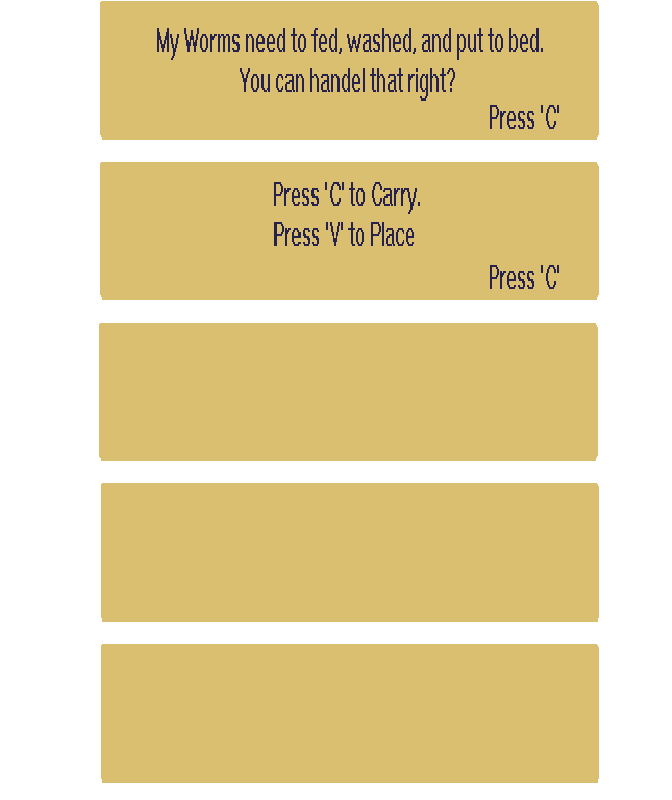
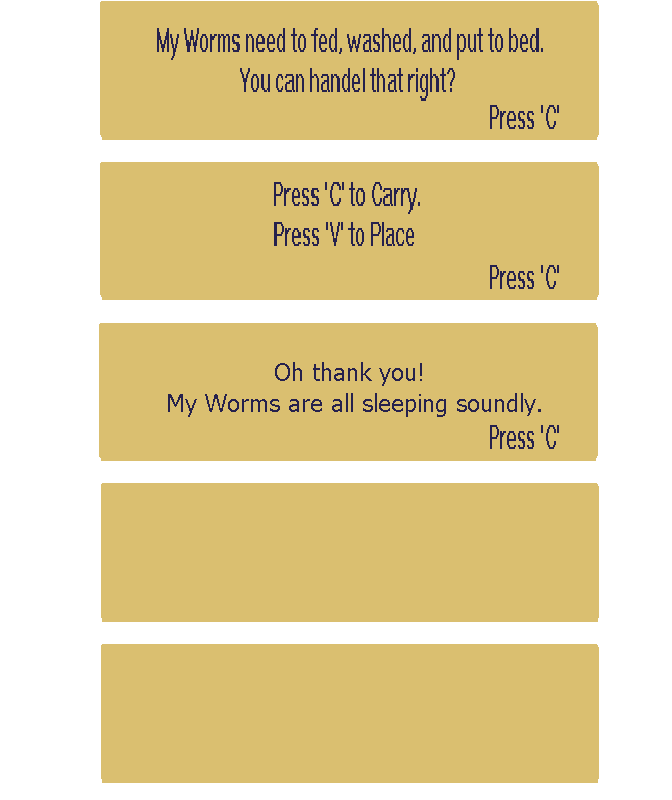
Old lady tells you when you finished

Changed region(s): [[0.25, 0.4375, 0.8438, 0.5625], [0.4062, 0.4375, 0.4375, 0.4688]]

diff --git a/src/scenes.js b/src/scenes.js
@@ -351,7 +351,7 @@ for (var x = 11; x < 20; x++) {
 
   // Worms
 
-  Game.worm_list = []
+  Game.sleeping_worm_num = 0
   worm_num = 50
   /// Create some worms 
   for(i = 1; i <= worm_num; i++){
@@ -375,9 +375,6 @@ for (var x = 11; x < 20; x++) {
 
       //console.log(this_worm.hit('Solid'), this_worm.hit('Pushable')) 
     }
-
-    // add this worm to the worm list 
-    Game.worm_list.push(this_worm)
   }
 
 
@@ -386,7 +383,7 @@ for (var x = 11; x < 20; x++) {
 ///Crafty.e("Worm").at(15, 15)
 
   // Show the victory screen once all villages are visisted
-  this.show_victory = this.bind('VillageVisited', function() {
+this.show_victory = this.bind('VillageVisited', function() {
     if (!Crafty('Village').length) {
       Crafty.scene('Victory');
     }
@@ -410,14 +407,18 @@ Crafty.scene('Victory', function() {
 
   // Watch for the player to press a key, then restart the game
   //  when a key is pressed
-  this.restart_game = this.bind('KeyDown', function() {
-    Crafty.scene('Game');
+  this.restart_game = this.bind('KeyDown', function(e) {
+    if(e.key == 13){
+        Crafty.scene('Game');
+        }
   });
-}, function() {
+}, function(e) {
   // Remove our event binding from above so that we don't
   //  end up having multiple redundant event watchers after
   //  multiple restarts of the game
-  this.unbind('KeyDown', this.restart_game);
+  if(e.key == 13){
+    this.unbind('KeyDown', this.restart_game);
+    }
 });
 
 // Loading scene
@@ -498,7 +499,8 @@ Crafty.scene('Loading', function(){
     //  to be drawn with a certain sprite
     Crafty.sprite(672, 160, 'assets/texts.png', {
       spr_text1: [0,0],
-      spr_text2: [0,1]
+      spr_text2: [0,1],
+      spr_text_complete: [0,2]
 
     })
     }); // end of text thing 
@@ -508,25 +510,3 @@ Crafty.scene('Loading', function(){
   })
 });
 
-
-
-//   // Load our sprite map image
-//   Crafty.load(['assets/16x16_forest_1.gif'], function(){
-//     // Once the image is loaded...
-
-//     // Define the individual sprites in the image
-//     // Each one (spr_tree, etc.) becomes a component
-//     // These components' names are prefixed with "spr_"
-//     //  to remind us that they simply cause the entity
-//     //  to be drawn with a certain sprite
-//     Crafty.sprite(16, 'assets/16x16_forest_1.gif', {
-//       spr_tree:    [0, 0],
-//       spr_bush:    [1, 0],
-//       spr_village: [0, 1],
-//       spr_player:  [1, 1]
-//     });
-
-//     // Now that our sprites are ready to draw, start the game
-//     Crafty.scene('Game');
-//   })
-// });

diff --git a/src/components.js b/src/components.js
@@ -125,6 +125,17 @@ Crafty.c('ReminderText', {
   },
 });
 
+Crafty.c('CompletionText', {
+  init: function() {
+    this.requires('Actor, Solid, spr_text_complete, Keyboard')
+    .bind('KeyDown', function(e){
+
+        this.destroy()
+        
+    })
+  },
+});
+
 
 // A Bush is just an Actor with a certain sprite
 Crafty.c('ShelfRight', {
@@ -361,6 +372,7 @@ Crafty.c('Worm', {
 
           if(this.sleepy_counter == 1000){
             this.sleeping = true
+            Game.sleeping_worm_num = Game.sleeping_worm_num + 1
             this.colorWorm()
 
           }
@@ -538,9 +550,14 @@ Crafty.c('PlayerCharacter', {
       .bind('KeyDown', function(e){
         if(e.key == 67){
           this.c_pressed = true
-          if(this.x / 32.0 <= 11 & this.x/ 32.0 >= 10){
-            if(this.y /32.0  >= 15 & this.y/ 32.0 >=16){
-              Crafty.e('ReminderText').at(0,17)
+          if(this.x / 32.0 >= 10 & this.x/ 32.0 < 12){
+            if(this.y /32.0  >= 15 & this.y/ 32.0 <17){
+              console.log(Game.sleeping_worm_num)
+              if(Game.sleeping_worm_num == 10){
+                Crafty.e('CompletionText').at(0,17)
+              }else{
+                Crafty.e('ReminderText').at(0,17)
+              }
             }
           }
         }else{
@@ -700,6 +717,12 @@ Crafty.c('PlayerCharacter', {
             'asleep': this_worm.asleep,
         })
 
+        // Update the Worm Counter if the worm was asleep and them woken
+        // by being caried 
+        if(this_worm.sleeping == true){
+        Game.sleeping_worm_num = Game.sleeping_worm_num - 1
+        }
+
         this_worm.destroy()
 
         document.getElementById('_num_worms').innerHTML = String(this.worms_in_arms)
@@ -787,6 +810,9 @@ Crafty.c('PlayerCharacter', {
       this_worm.fed = this.worm_in_arms_properties[i].fed
       this_worm.clean = this.worm_in_arms_properties[i].clean
       this_worm.asleep = this.worm_in_arms_properties[i].asleep
+
+      this_worm.og_x = open_spaces[this_index][0]
+      this_worm.og_y = open_spaces[this_index][1]
 
       this_worm.colorWorm()
 
